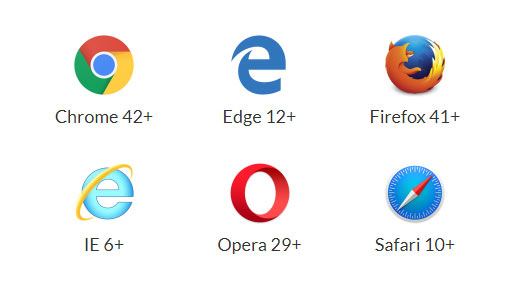
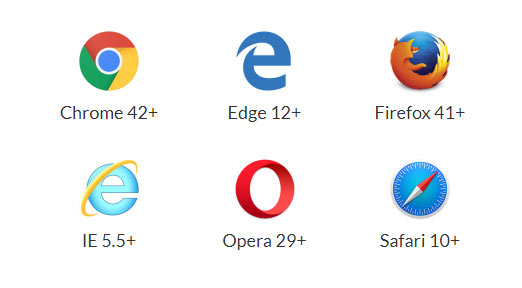
更新说明和示例图片

diff --git a/README.md b/README.md
@@ -6,3 +6,6 @@ clipBordCopy.js
 使用方法：clipBordCopy("hello Copy");//执行后复制hello Copy到粘贴板
 注意：部分浏览器需要配合鼠标点击等用户动作才能执行成功，这种方法一般是配合绑定用户点击事件使用
 支持ie6/ie6+、chrome42+、Edge12+、Firefox41+、Opera29+、Safari10+
+```html
+clipBordCopy("hello Copy");//执行后复制hello Copy到粘贴板
+```
